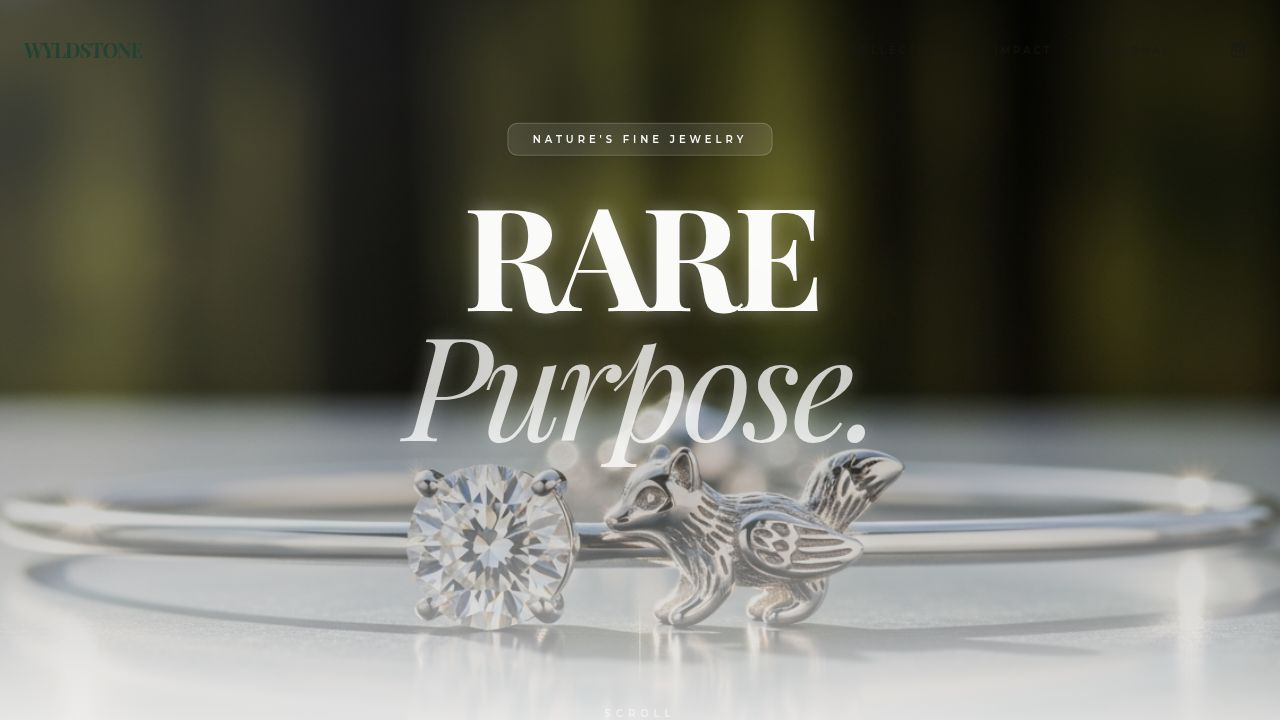
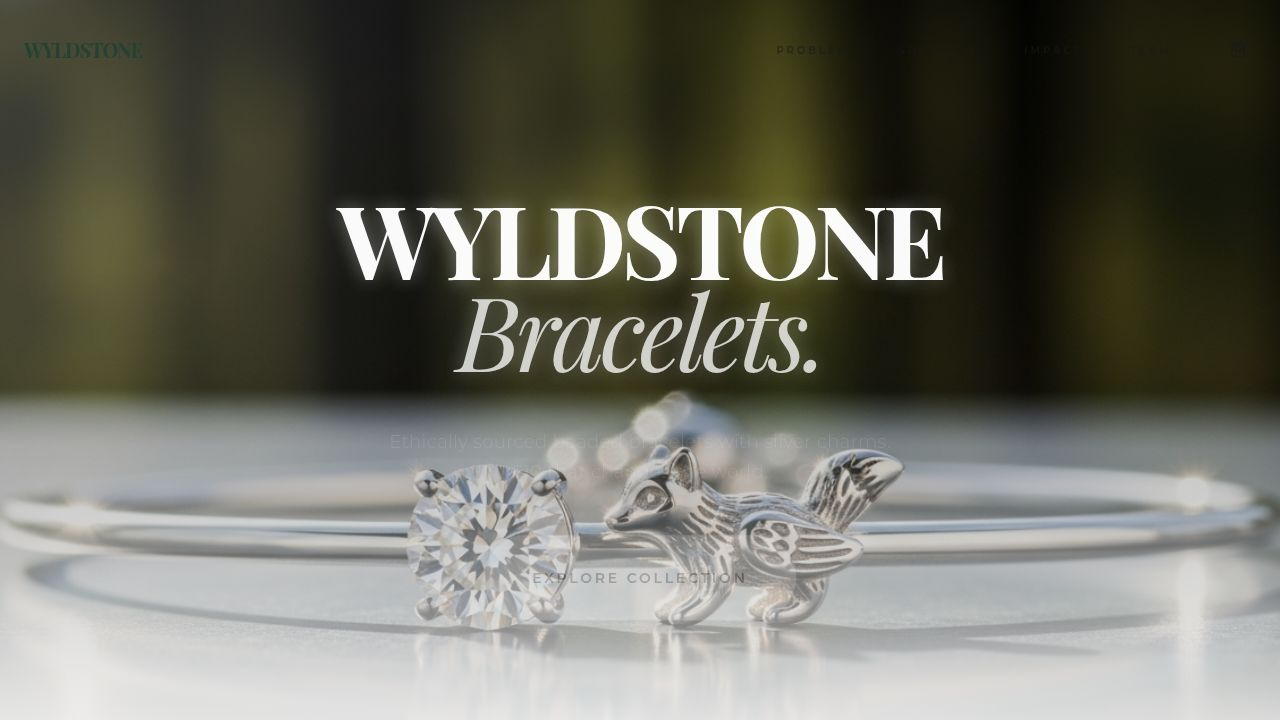
Update homepage impact statement to align with brand mission
Modify the hero section's impact statement text to reflect the core mission of protecting endangered species and zoo animals.

Replit-Commit-Author: Agent
Replit-Commit-Session-Id: 24ecc205-ee39-4775-a403-5e4089a50485
Replit-Commit-Checkpoint-Type: full_checkpoint
Replit-Commit-Event-Id: 6b3e4608-a858-4c61-a36b-cca4bbe21688
Replit-Commit-Screenshot-Url: https://storage.googleapis.com/screenshot-production-us-central1/b48648d3-8c77-4c3d-8e03-056bdb3f98bf/24ecc205-ee39-4775-a403-5e4089a50485/Pds1OVy
Replit-Helium-Checkpoint-Created: true

Changed region(s): [[0.25, 0.275, 0.75, 0.6722], [0.4375, 0.7333, 0.625, 0.825], [0.4062, 0.1528, 0.5938, 0.2139]]

diff --git a/client/src/pages/home.tsx b/client/src/pages/home.tsx
@@ -166,7 +166,7 @@ const ImpactStatement = () => {
             transition={{ duration: 1, ease: [0.16, 1, 0.3, 1] }}
             className="text-[clamp(2.5rem,8vw,6rem)] font-serif leading-[1.1] text-center tracking-tighter"
           >
-            "A small piece of <span className="italic text-accent">luxury</span> that acts as a giant shield for the <span className="opacity-40">wild.</span>"
+            "WyldStone is committed to protecting <span className="italic text-accent">endangered species</span> and <span className="opacity-40">vulnerable zoo animals.</span>"
           </motion.h2>
         </div>
       </div>
